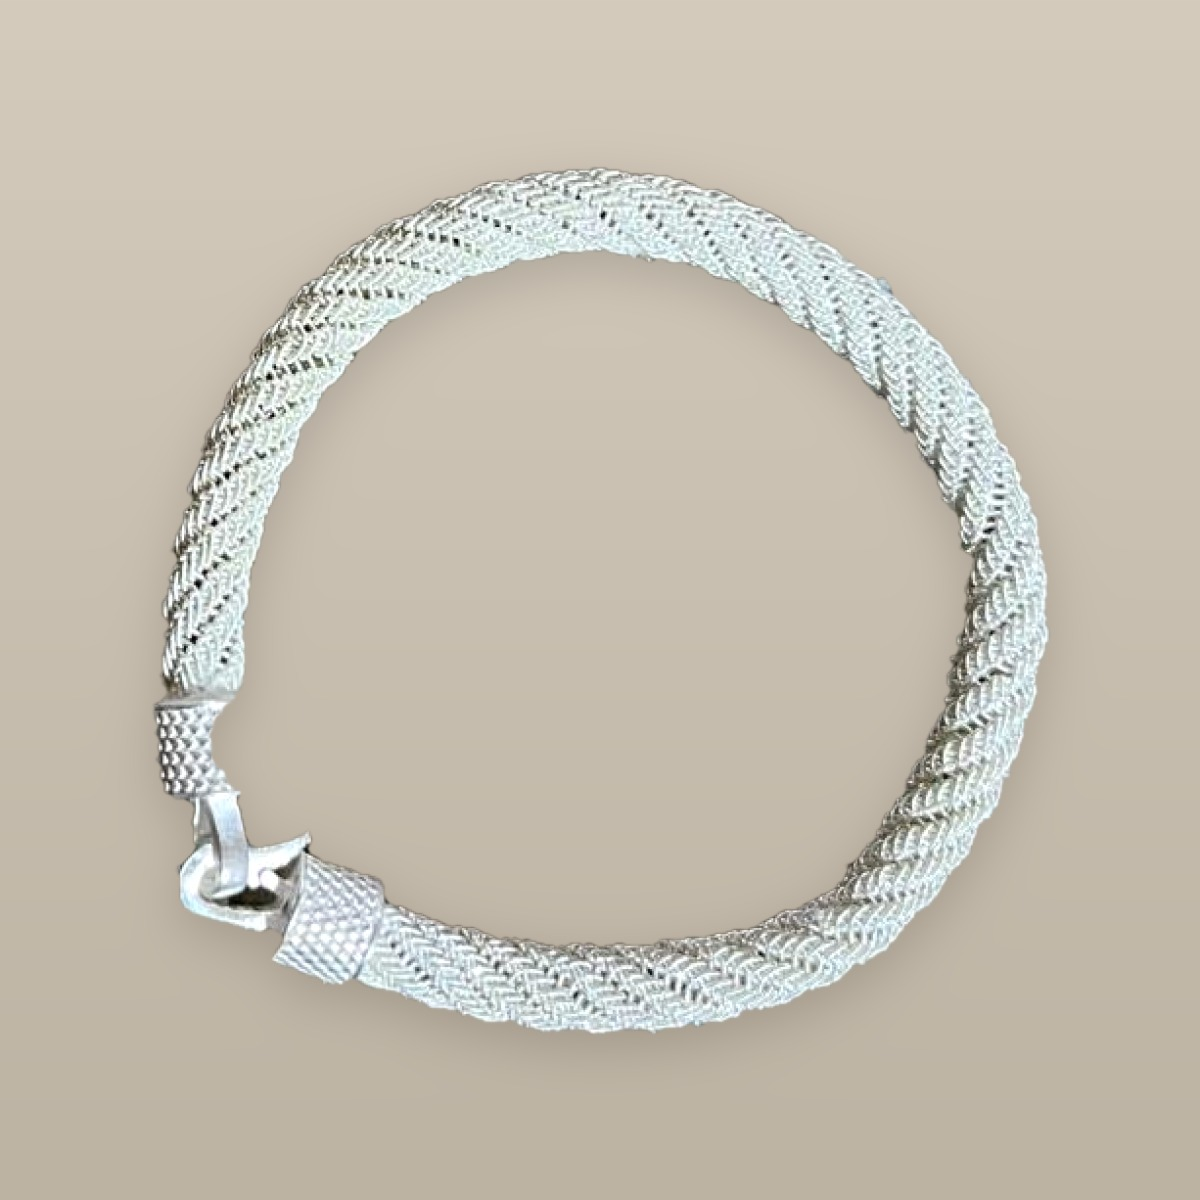
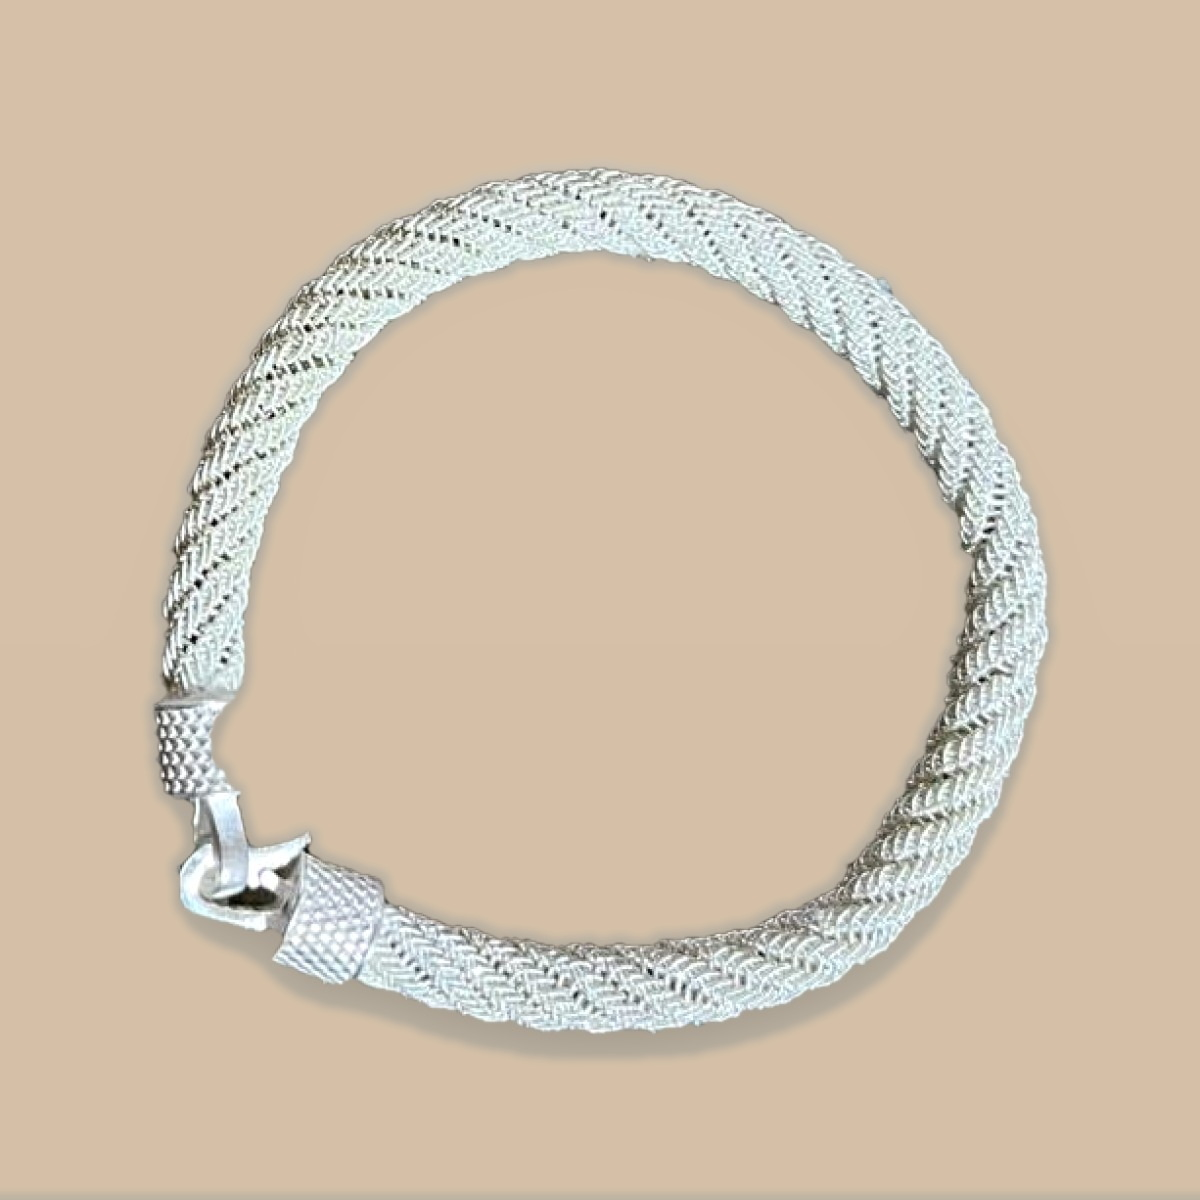
Site metinlerini ve ürün görsellerini güncelle

diff --git a/js/urunler.js b/js/urunler.js
@@ -9,8 +9,8 @@
      kategori  : "kolye" | "kupe" | "yuzuk" | "bileklik" | "bilezik"
      fiyat     : Yazı olarak fiyat. Fiyat göstermek istemezseniz ""
      gorsel    : tek fotoğraf  -> "gorseller/adi.jpg"
-     gorseller : birden fazla fotoğraf -> ["gorseller/bir.jpg", "gorseller/iki.jpg"]
-                 İlk fotoğraf kartta görünür; fare gelince tüm fotoğraflar sırayla kayar.
+     gorseller : fotoğraf sırası -> [tam ürün, detay, kullanımda]
+                 İlk fotoğraf kartta görünür; fare gelince diğer fotoğraflar sırayla kayar.
                  Pencerede altta küçük kareler çıkar, tıklayarak geçilir.
      aciklama  : Kısa tanıtım yazısı
      detay     : Malzeme / ölçü gibi bilgiler
@@ -28,8 +28,9 @@ const URUNLER = [
     kategori: "kolye",
     fiyat: "",
     gorseller: [
-      "gorseller/orgu-kolye-bej.jpg",      // 1. sıra: tam halka
-      "gorseller/orgu-takim-bej.jpg",      // 2. sıra: bilekliğiyle takım
+      "gorseller/orgu-kolye-bej.jpg",
+      "gorseller/orgu-kolye-detay.jpg",
+      "gorseller/orgu-kolye-takili.jpg",
     ],
     aciklama: "Yuvarlak örgü gümüş kordon, uçlarında desenli silindir kapaklar. Aynı örgüden bileklikle takım oluşturuyor.",
     detay: "1000 ayar gümüş · Çengel kapama",
@@ -43,6 +44,7 @@ const URUNLER = [
     gorseller: [
       "gorseller/orgu-bileklik-yeni-tam.jpg",
       "gorseller/orgu-bileklik-yeni-detay.jpg",
+      "gorseller/orgu-bileklik-kolda.jpg",
     ],
     aciklama: "Yuvarlak örgü dokusu ve desenli kapaklarıyla zarif gümüş bileklik.",
     detay: "1000 ayar gümüş · Çengel kapama",
@@ -53,8 +55,12 @@ const URUNLER = [
     ad: "Mor Taşlı Kolye",
     kategori: "kolye",
     fiyat: "",                                  // fiyatı yazınca kartta görünür
-    gorsel: "gorseller/mor-tasli-kolye.jpg",
-    aciklama: "El örgüsü gümüş kordon, ortasında mor taş; uçları püsküllü.",
+    gorseller: [
+      "gorseller/mor-tasli-kolye.jpg",
+      "gorseller/mor-tasli-bileklik-tas-yakin.jpg",
+      "gorseller/mor-tasli-kolye-takili.jpg",
+    ],
+    aciklama: "El örgüsü gümüş kordon, ortasında mor taş ve uçları püsküllü.",
     detay: "1000 ayar gümüş · Ayarlanabilir uzunluk",
     oneCikan: true,
     stok: true,
@@ -66,6 +72,7 @@ const URUNLER = [
     gorseller: [
       "gorseller/mor-tasli-bileklik-tam.jpg",
       "gorseller/mor-tasli-bileklik-tas-yakin.jpg",
+      "gorseller/mor-tasli-bileklik-kolda.jpg",
     ],
     aciklama: "İnce örgü kordonların ortasına oturtulmuş oval mor taş.",
     detay: "1000 ayar gümüş · Çengel kapama",
@@ -76,8 +83,12 @@ const URUNLER = [
     ad: "Burgu Örgü Bileklik",
     kategori: "bileklik",
     fiyat: "",
-    gorsel: "gorseller/orgu-bileklik-burgu.jpg",
-    aciklama: "Sarmal dokulu, dolgun örgü; tırtıllı uç kapakları ve çengel kapama.",
+    gorseller: [
+      "gorseller/orgu-bileklik-burgu.jpg",
+      "gorseller/orgu-bileklik-burgu-detay.jpg",
+      "gorseller/orgu-bileklik-burgu-kolda.jpg",
+    ],
+    aciklama: "Sarmal dokulu, dolgun örgü, tırtıllı uç kapakları ve çengel kapama.",
     detay: "1000 ayar gümüş",
     oneCikan: true,
     stok: true,
@@ -86,7 +97,11 @@ const URUNLER = [
     ad: "İnce Örgü Bileklik",
     kategori: "bileklik",
     fiyat: "",
-    gorsel: "gorseller/orgu-bileklik-ince.jpg",
+    gorseller: [
+      "gorseller/orgu-bileklik-ince.jpg",
+      "gorseller/orgu-bileklik-ince-detay.jpg",
+      "gorseller/orgu-bileklik-ince-kolda.jpg",
+    ],
     aciklama: "Hafif ve her güne uygun, ince burgulu örgü.",
     detay: "1000 ayar gümüş",
     oneCikan: true,
@@ -97,8 +112,8 @@ const URUNLER = [
     kategori: "bileklik",
     fiyat: "",
     gorseller: [
+      "gorseller/inci-detayli-bileklik-tam.jpg",
       "gorseller/inci-bileklik.jpg",
-      "gorseller/inci-detayli-bileklik-bilekte-yakin-temiz.jpg",
       "gorseller/inci-detayli-bileklik-bilekte-genel-temiz.jpg",
     ],
     aciklama: "Örgü halkaların arasına oturtulmuş üç inci.",
@@ -111,8 +126,9 @@ const URUNLER = [
     kategori: "bileklik",
     fiyat: "",
     gorseller: [
+      "gorseller/boncuk-detayli-bileklik-tam.jpg",
+      "gorseller/boncuk-detayli-bileklik-detay.jpg",
       "gorseller/boncuk-detayli-bileklik-bilekte-bej.jpg",
-      "gorseller/boncuk-bileklik.jpg",
     ],
     aciklama: "Bilekte zarif duran örgü zemin üzerinde minik gümüş top detayları.",
     detay: "1000 ayar gümüş",
@@ -123,8 +139,12 @@ const URUNLER = [
     ad: "Geniş Örgü Bileklik",
     kategori: "bileklik",
     fiyat: "",
-    gorsel: "gorseller/orgu-bileklik-genis.jpg",
-    aciklama: "Kalın hasır örgü; ortada parlak silindir kapama.",
+    gorseller: [
+      "gorseller/genis-orgu-bileklik-tam.jpg",
+      "gorseller/orgu-bileklik-genis.jpg",
+      "gorseller/genis-orgu-bileklik-kolda.jpg",
+    ],
+    aciklama: "Kalın hasır örgü ve ortada parlak silindir kapama.",
     detay: "1000 ayar gümüş",
     oneCikan: true,
     stok: true,
@@ -136,6 +156,7 @@ const URUNLER = [
     gorseller: [
       "gorseller/dugum-detayli-bileklik-klipsli.png",
       "gorseller/dugum-detayli-bileklik.png",
+      "gorseller/dugum-detayli-bileklik-kolda.jpg",
     ],
     aciklama: "İnce örgü gümüş kordonların ortasında elde örülmüş düğüm formu.",
     detay: "1000 ayar gümüş · Örgü düğüm detay",
@@ -149,6 +170,7 @@ const URUNLER = [
     gorseller: [
       "gorseller/tek-inci-bileklik.png",
       "gorseller/tek-inci-bileklik-inci-detay.jpg",
+      "gorseller/tek-inci-bileklik-kolda.jpg",
     ],
     aciklama: "Ortasında tek inci ve örgü yuva bulunan zarif gümüş bileklik.",
     detay: "1000 ayar gümüş · İnci",
@@ -160,8 +182,9 @@ const URUNLER = [
     kategori: "bileklik",
     fiyat: "",
     gorseller: [
-      "gorseller/genis-hasir-orgu-bileklik.png",
       "gorseller/genis-hasir-orgu-bileklik-tam.png",
+      "gorseller/genis-hasir-orgu-bileklik.png",
+      "gorseller/genis-hasir-orgu-bileklik-kolda.jpg",
     ],
     aciklama: "Yoğun hasır örgü dokusuyla geniş ve belirgin bir bileklik formu.",
     detay: "1000 ayar gümüş · Geniş örgü form",
@@ -175,6 +198,7 @@ const URUNLER = [
     gorseller: [
       "gorseller/boncuklu-dalga-bileklik-tam.jpg",
       "gorseller/boncuklu-dalga-bileklik.jpg",
+      "gorseller/boncuklu-dalga-bileklik-kolda.jpg",
     ],
     aciklama: "Dalga formundaki çift örgünün içinde tekrar eden minik gümüş boncuklar.",
     detay: "1000 ayar gümüş · Boncuk detay",
@@ -188,6 +212,7 @@ const URUNLER = [
     gorseller: [
       "gorseller/sonsuzluk-dugumlu-bileklik-klipsli.png",
       "gorseller/sonsuzluk-dugumlu-bileklik.jpg",
+      "gorseller/sonsuzluk-dugumlu-bileklik-kolda.jpg",
     ],
     aciklama: "Sonsuzluk formunu andıran geniş düğüm detayı, ince örgü kordonlarla tamamlanıyor.",
     detay: "1000 ayar gümüş · Düğüm form",
@@ -201,6 +226,7 @@ const URUNLER = [
     gorseller: [
       "gorseller/cok-sirali-dugum-bileklik-klipsli.png",
       "gorseller/cok-sirali-dugum-bileklik.jpg",
+      "gorseller/cok-sirali-dugum-bileklik-kolda.jpg",
     ],
     aciklama: "Çok sıralı ince örgü kordonların ortasında küçük bir düğüm detayı.",
     detay: "1000 ayar gümüş · Çok sıralı örgü",
@@ -211,8 +237,12 @@ const URUNLER = [
     ad: "Sert Bakır Bilezik",
     kategori: "bilezik",
     fiyat: "",
-    gorsel: "gorseller/sert-bakir-bilezik.jpg",
-    aciklama: "Açık uçlu sert bakır form; örgü geçişleri ve el işi yüzey dokusuyla sıcak bir parça.",
+    gorseller: [
+      "gorseller/sert-bakir-bilezik.jpg",
+      "gorseller/sert-bakir-bilezik-detay.jpg",
+      "gorseller/sert-bakir-bilezik-kolda.jpg",
+    ],
+    aciklama: "Açık uçlu sert bakır form, örgü geçişleri ve el işi yüzey dokusuyla sıcak bir parça.",
     detay: "Bakır · Sert açık bilezik form",
     oneCikan: true,
     stok: true,
@@ -223,9 +253,10 @@ const URUNLER = [
     fiyat: "",
     gorseller: [
       "gorseller/bakir-tel-bilezik.jpg",
+      "gorseller/bakir-tel-bilezik-detay.jpg",
       "gorseller/bakir-tel-bilezik-bilekte-bej.jpg",
     ],
-    aciklama: "İnce bakır tellerle örülmüş geniş bilezik; ikinci fotoğrafta bilekte duruşu görülebilir.",
+    aciklama: "İnce bakır tellerle örülmüş geniş bilezik. İkinci fotoğrafta bilekte duruşu görülebilir.",
     detay: "Bakır tel · Çok sıralı örgü",
     oneCikan: true,
     stok: true,

diff --git a/index.html b/index.html
@@ -46,7 +46,7 @@
       <h1>Elde şekillenen<br>sessiz bir zarafet</h1>
       <p class="vitrin-yazi">
         Ozka Studio'daki her parça, küçük bir atölyede tek bir çift elden çıkıyor.
-        Kalıp yok, seri üretim yok; sadece gümüş teller, sabır ve zaman.
+        Kalıp yok, seri üretim yok. Sadece gümüş teller, sabır ve zaman.
       </p>
       <div class="vitrin-dugmeler">
         <a class="buton" href="koleksiyon.html">Koleksiyonu Gör</a>
@@ -95,7 +95,6 @@
     <div class="bolum-baslik">
       <p class="ust-etiket">Seçilmiş Parçalar</p>
       <h2>Öne çıkanlar</h2>
-      <p>Bu ay atölyeden çıkan, en çok sorulan tasarımlar.</p>
     </div>
 
     <div class="izgara" id="oneCikanlar"></div>
@@ -131,8 +130,8 @@
       <h2>Bir masa, incecik teller, çok fazla sabır</h2>
       <p>
         Ozka Studio, İzmir'de bir ev atölyesinde kuruldu. Her tasarım kağıt üzerinde bir
-        çizim olarak başlıyor; sonra gümüş ve bakır teller elde bükülüyor, örülüyor, lehimleniyor
-        ve tek tek parlatılıyor. Bu yüzden hiçbir parça diğerinin tam kopyası değil;
+        çizim olarak başlıyor. Sonra gümüş ve bakır teller elde bükülüyor, örülüyor, lehimleniyor
+        ve tek tek parlatılıyor. Bu yüzden hiçbir parça diğerinin tam kopyası değil.
         yüzeydeki her küçük iz elle yapıldığının işareti.
       </p>
 
@@ -169,7 +168,7 @@
     <div class="bolum-baslik bolum-baslik--orta">
       <p class="ust-etiket">Takı Bakımı</p>
       <h2>Uzun yıllar ilk günkü gibi</h2>
-      <p>Gümüş ve bakır yaşayan metallerdir; birkaç küçük alışkanlık parlaklığını korur.</p>
+      <p>Gümüş ve bakır yaşayan metallerdir. Birkaç küçük alışkanlık parlaklığını korur.</p>
     </div>
 
     <div class="kartlar">
@@ -186,7 +185,7 @@
       <div class="kart">
         <svg width="26" height="26" viewBox="0 0 24 24" fill="none" stroke="currentColor" stroke-width="1.5"><path d="M4 20 20 4"/><path d="M14 4h6v6"/></svg>
         <h3>Yumuşak bezle silin</h3>
-        <p>Kararma olursa kuru mikrofiber bez yeter; sert kimyasal kullanmayın.</p>
+        <p>Kararma olursa kuru mikrofiber bez yeter. Sert kimyasal kullanmayın.</p>
       </div>
     </div>
   </div>

diff --git a/css/stil.css b/css/stil.css
@@ -13,6 +13,8 @@
   --vurgu: #8c8577;
   --vurgu-koyu: #6d675b;
   --gumus: #c9ccd1;
+  --foto-zemin: #d6c1a8;
+  --foto-zemin-koyu: #cdb89f;
   --golge: 0 1px 2px rgba(44, 42, 39, 0.04), 0 8px 24px rgba(44, 42, 39, 0.05);
   --golge-yuksek: 0 2px 4px rgba(44, 42, 39, 0.06), 0 18px 44px rgba(44, 42, 39, 0.1);
   --yumusak: 14px;
@@ -262,6 +264,10 @@ p { margin: 0 0 1em; }
 }
 
 .urun {
+  display: block;
+  width: 100%;
+  appearance: none;
+  -webkit-appearance: none;
   background: var(--kart);
   border: 1px solid var(--cizgi);
   border-radius: var(--yumusak);
@@ -280,8 +286,9 @@ p { margin: 0 0 1em; }
   position: relative;
   aspect-ratio: 1 / 1;
   /* ürün fotoğraflarının zeminiyle aynı ton: fotoğraf yüklenirken zıplama olmasın */
-  background: linear-gradient(180deg, #d4cbbd, #bdb3a3);
+  background: linear-gradient(180deg, var(--foto-zemin), var(--foto-zemin-koyu));
   overflow: hidden;
+  line-height: 0;
 }
 .urun-gorsel img, .urun-gorsel svg {
   position: absolute;
@@ -296,15 +303,17 @@ p { margin: 0 0 1em; }
   position: absolute;
   inset: 0;
   display: flex;
-  width: calc(100% * var(--foto-sayisi, 1));
+  width: 100%;
   height: 100%;
   transform: translateX(0);
   transition: transform 0.55s ease;
 }
 .urun-gorsel .kart-galeri img {
   position: static;
-  flex: 0 0 calc(100% / var(--foto-sayisi, 1));
-  width: calc(100% / var(--foto-sayisi, 1));
+  flex: 0 0 100%;
+  width: 100%;
+  min-width: 100%;
+  max-width: none;
   height: 100%;
 }
 
@@ -314,6 +323,7 @@ p { margin: 0 0 1em; }
   padding: 4px 10px;
   border-radius: 100px;
   background: rgba(255, 255, 255, 0.88);
+  line-height: 1;
   font-size: 0.66rem;
   letter-spacing: 0.12em;
   text-transform: uppercase;
@@ -468,7 +478,7 @@ p { margin: 0 0 1em; }
 }
 @keyframes yukari { from { opacity: 0; transform: translateY(14px); } }
 
-.pencere-gorsel { background: linear-gradient(180deg, #d4cbbd, #bdb3a3); position: relative; }
+.pencere-gorsel { background: linear-gradient(180deg, var(--foto-zemin), var(--foto-zemin-koyu)); position: relative; }
 .pencere-gorsel img, .pencere-gorsel svg { width: 100%; height: 100%; object-fit: cover; min-height: 320px; }
 
 /* Pencere içindeki küçük fotoğraf kareleri */

diff --git a/js/site.js b/js/site.js
@@ -76,7 +76,7 @@ function kartGalerisiniKur(kart) {
 
   const fotoGoster = (sira) => {
     aktifFoto = Math.min(Math.max(sira, 0), fotoSayisi - 1);
-    galeri.style.transform = `translateX(-${(100 / fotoSayisi) * aktifFoto}%)`;
+    galeri.style.transform = `translateX(-${100 * aktifFoto}%)`;
   };
 
   const baslat = () => {
@@ -107,7 +107,7 @@ function urunKarti(urun, sira) {
   const gorselSayisi = gorselListesi(urun).length;
 
   return `
-    <button class="urun" data-sira="${sira}" aria-label="${urun.ad}, detayları gör">
+    <article class="urun" data-sira="${sira}" tabindex="0" role="button" aria-label="${urun.ad}, detayları gör">
       <div class="urun-gorsel">
         ${kartGorselHtml(urun)}
         ${urun.stok === false ? '<span class="etiket">Tükendi</span>' : ""}
@@ -122,7 +122,7 @@ function urunKarti(urun, sira) {
           <span class="urun-detay-link">Detay →</span>
         </div>
       </div>
-    </button>`;
+    </article>`;
 }
 
 function izgarayaBas(hedef, liste) {
@@ -136,8 +136,14 @@ function izgarayaBas(hedef, liste) {
     .join("");
   gorselleriKoru(hedef);
   secTum(".urun", hedef).forEach((kart) => {
+    const kartiAc = () => pencereAc(URUNLER[+kart.dataset.sira]);
     kartGalerisiniKur(kart);
-    kart.addEventListener("click", () => pencereAc(URUNLER[+kart.dataset.sira]));
+    kart.addEventListener("click", kartiAc);
+    kart.addEventListener("keydown", (olay) => {
+      if (olay.key !== "Enter" && olay.key !== " ") return;
+      olay.preventDefault();
+      kartiAc();
+    });
   });
 }
 
@@ -189,7 +195,7 @@ function pencereAc(urun) {
   sec("#pencereAciklama").textContent = urun.aciklama || "";
   sec("#pencereDetay").textContent = urun.detay || "";
   sec("#pencereStok").textContent =
-    urun.stok === false ? "Şu an tükendi; benzeri özel olarak üretilebilir." : "Hazır ve teslime uygun.";
+    urun.stok === false ? "Şu an tükendi. Benzeri özel olarak üretilebilir." : "Hazır ve teslime uygun.";
 
   const mesaj = `Merhaba, "${urun.ad}" hakkında bilgi almak istiyorum.`;
 

diff --git a/koleksiyon.html b/koleksiyon.html
@@ -52,7 +52,7 @@
 
     <div class="arama-kutusu">
       <svg width="17" height="17" viewBox="0 0 24 24" fill="none" stroke="currentColor" stroke-width="1.6"><circle cx="11" cy="11" r="7"/><path d="m20 20-3.5-3.5"/></svg>
-      <input type="search" id="arama" placeholder="Ürün ara (örn. ay taşı)" aria-label="Ürün ara">
+      <input type="search" id="arama" placeholder="Ürün ara (örn: ametist)" aria-label="Ürün ara">
     </div>
 
     <div class="filtreler" id="filtreler"></div>
@@ -69,7 +69,7 @@
     <div class="bolum-baslik bolum-baslik--orta">
       <p class="ust-etiket">Nasıl sipariş verilir?</p>
       <h2>Üç adımda tamamlanır</h2>
-      <p>Sitede henüz online ödeme yok; süreç tamamen mesaj üzerinden yürüyor.</p>
+      <p>Sitede henüz online ödeme yok. Süreç tamamen mesaj üzerinden yürüyor.</p>
     </div>
 
     <div class="kartlar">
